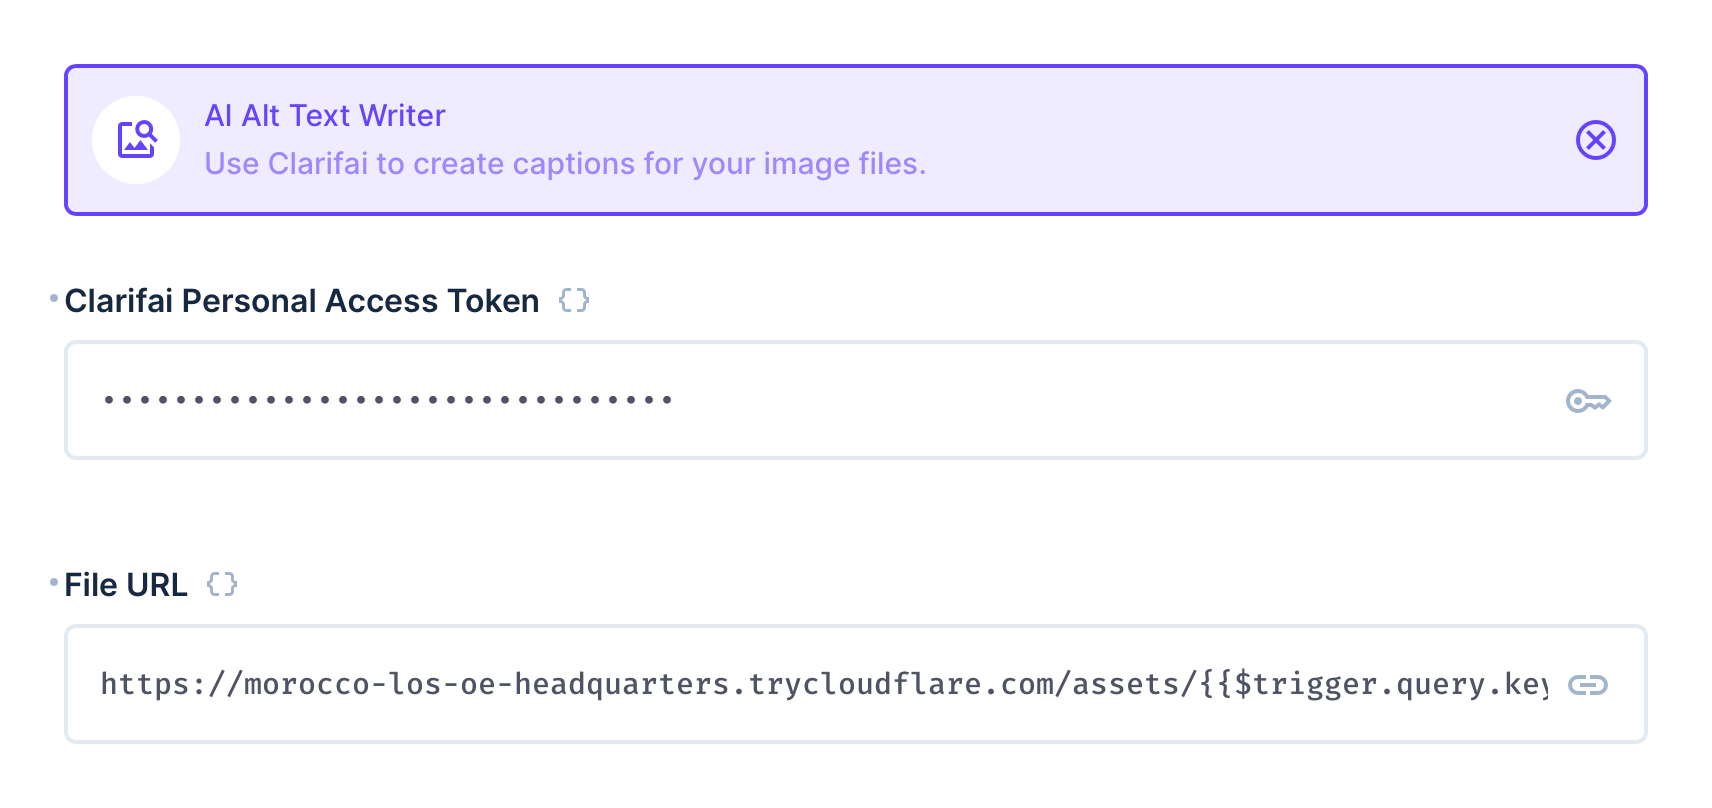
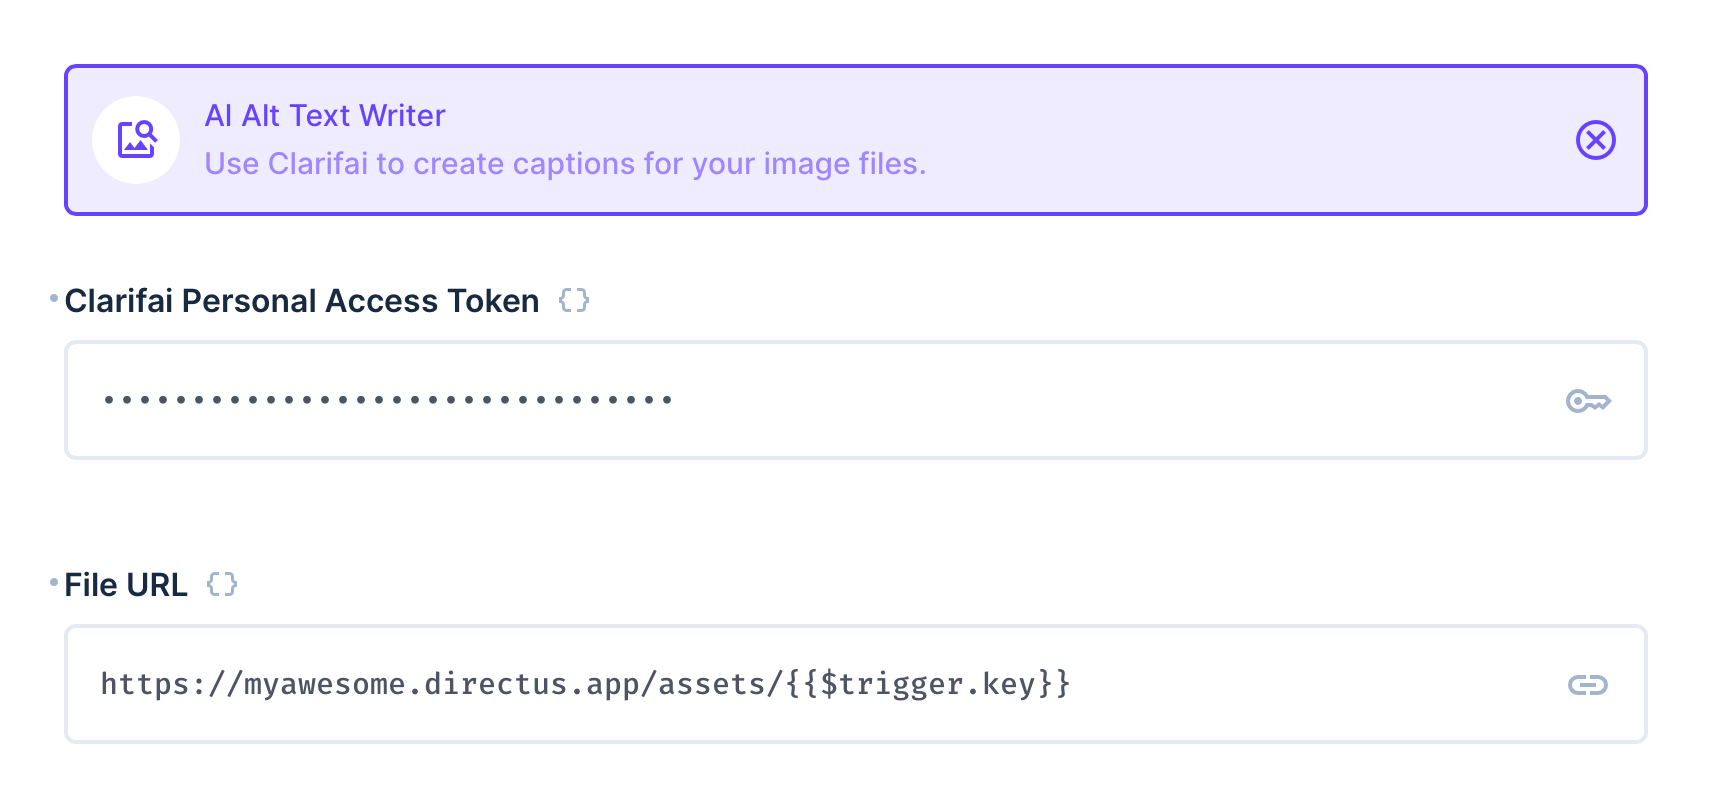
Adjustments for Directus Labs

Changed region(s): [[0.1548, 0.8354, 0.8978, 0.8663]]

diff --git a/src/api.ts b/src/api.ts
@@ -4,7 +4,7 @@ import { request, log } from 'directus:api'
 import type { SandboxOperationConfig } from "directus:api";
 
 const operation: SandboxOperationConfig = {
-	id: 'extension-ai-alt-text-writer-operation',
+	id: 'directus-labs-ai-alt-text-writer-operation',
 	handler: async ({ apiKey, url }) => {
 		try {
 			const response = await request(`https://api.clarifai.com/v2/users/salesforce/apps/blip/models/general-english-image-caption-blip/versions/cdb690f13e62470ea6723642044f95e4/outputs`, {
@@ -25,12 +25,9 @@ const operation: SandboxOperationConfig = {
 					]
 				}
 			})
-			const $raw = (<any>response?.data)?.outputs?.[0]?.data;
-			if ($raw?.text?.raw) {
-				return {
-					text: $raw.text.raw,
-					$raw
-				};
+			const output = (<any>response?.data)?.outputs?.[0]?.data;
+			if (output?.text?.raw) {
+				return output.text.raw;
 			}
 			throw new Error("No text was found in the picture.");
 		} catch (error:any) {

diff --git a/src/app.ts b/src/app.ts
@@ -1,7 +1,7 @@
 import { defineOperationApp } from '@directus/extensions-sdk';
 
 export default defineOperationApp({
-	id: 'extension-ai-alt-text-writer-operation',
+	id: 'directus-labs-ai-alt-text-writer-operation',
 	name: 'AI Alt Text Writer',
 	icon: 'image_search',
 	description: 'Use Clarifai to create captions for your image files.',
@@ -38,7 +38,7 @@ export default defineOperationApp({
 				options: {
 					iconRight: 'link',
 					font: 'monospace',
-					placeholder: 'https://mydomain/assets/{{$trigger.key}}'
+					placeholder: 'https://my.directus.app/assets/{{$trigger.key}}'
 				}
 			}
 		}

diff --git a/README.md b/README.md
@@ -4,35 +4,23 @@ Create captions for your images within Directus Files with this custom operation
 
 ![The AI Alt Text Writer operation, showing available options.](docs/options.png)
 
-This operation requires two options to be set - first a personal access token from [Clarifai](https://www.clarifai.com) (you can find this in your personal settings under [Security](https://clarifai.com/settings/security)), and a link to the image file. It will return a JSON object containing the text, as well as the raw result from the API.
-
-![Sample output](docs/clarifai-pat.png)
-
-You can use the operation to then save the result to a file description or item, or run further automation on the output.
+This operation requires two options to be set - first a personal access token from [Clarifai](https://www.clarifai.com) (you can find this in your personal settings under [Security](https://clarifai.com/settings/security)), and a link to the image file. The operation will return a string containing a text that describes the image.
 
 ![Sample output](docs/sample-output.png)
 
+You can use the operation to then save the result to a file description or item, or run further automation on the output.
+
 ## Output
 
-This operation outputs a JSON object with the following structure:
+This operation will output the text that was generated from the provided image:
 
 ```json
-{
-  "text": "a photograph of a man standing in front of a large explosion of smoke",
-  "$raw": {
-    "text": {
-      "raw": "a photograph of a man standing in front of a large explosion of smoke",
-      "text_info": {
-        "encoding": "UnknownTextEnc"
-      }
-    }
-  }
-}
+"a photograph of a man standing in front of a large explosion of smoke"
 ```
 
 ## Flow Setup
 
-### Automatically Transcribe New Files
+### Automatically Write Alt Text For New Files
 
 Create a Flow with an **Event Hook** action trigger and a scope of `files.upload`. Use the AI Alt Text Writer operation, setting the File URL to `https://your-directus-project-url/assets/{{ $trigger.key }}`, being sure to provide your specific Directus Project URL.
 
@@ -52,7 +40,7 @@ This operation will trigger on every new file upload, regardless of location or 
 }
 ```
 
-### Transcribe On-Demand
+### Write Alt Text On-Demand
 
 Create a Flow with a **Manual** trigger and select a collection with a file field, which should contain an image file. Set the Location to Item Page Only. To receive the file ID create a **Read Data** operation for the same collection, setting IDs to `{{ $trigger.body.keys[0] }}`.
 
